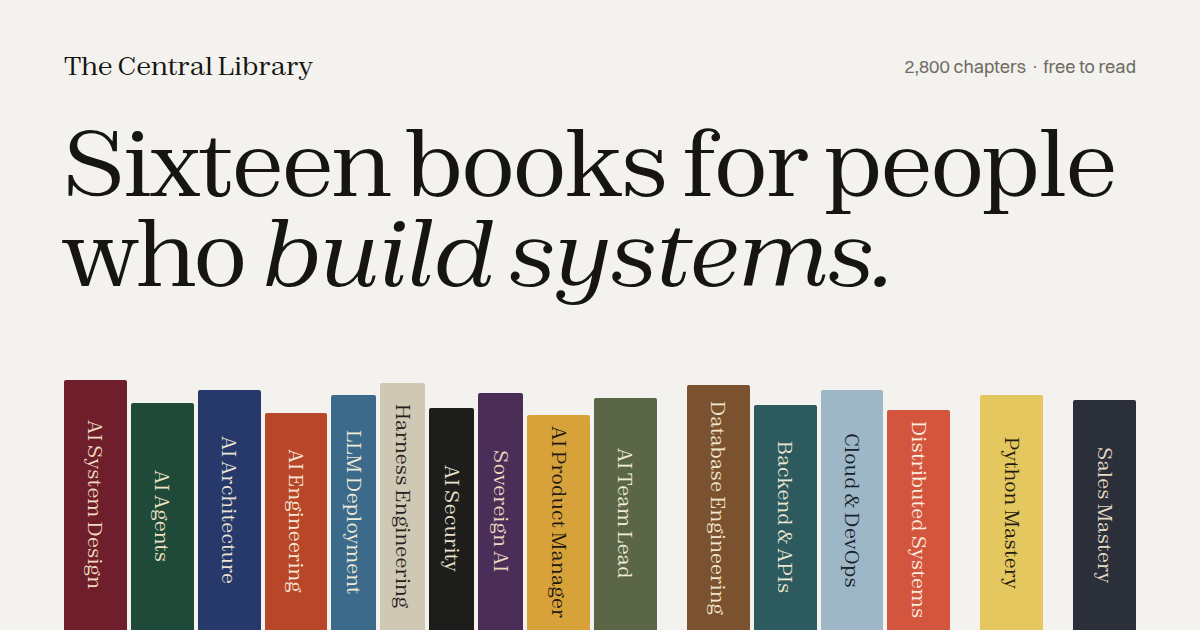
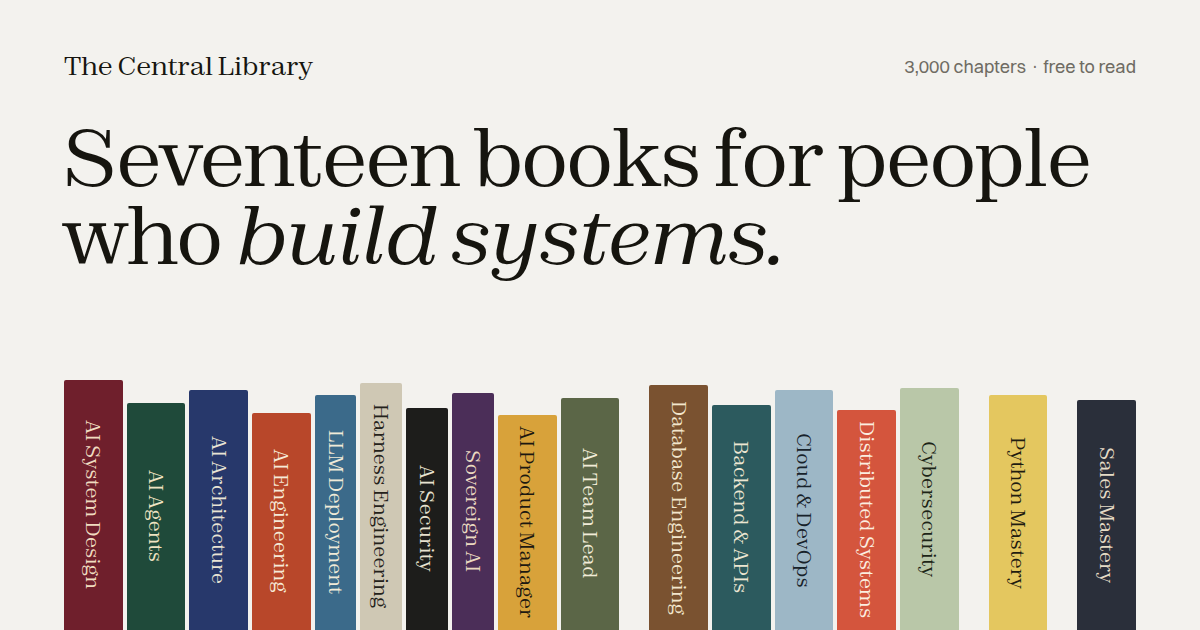
Add cybersecurity course to the library

Changed region(s): [[0.0617, 0.6032, 0.925, 1.0], [0.0308, 0.181, 0.925, 0.4825], [0.74, 0.0905, 0.7708, 0.1206]]

diff --git a/index.html b/index.html
@@ -5,16 +5,16 @@
   <meta name="viewport" content="width=device-width, initial-scale=1, viewport-fit=cover">
   <meta name="theme-color" content="#f3f2ee">
   <meta name="color-scheme" content="dark light">
-  <meta name="description" content="The Central Library — sixteen practical books on AI engineering, backends, cloud, distributed systems, databases, Python, product, leadership and sales. 2,800 chapters, free to read.">
+  <meta name="description" content="The Central Library — seventeen practical books on AI engineering, backends, cloud, security, distributed systems, databases, Python, product, leadership and sales. 3,000 chapters, free to read.">
   <meta name="author" content="Harsh Jha, AI Lead at Formee Holdings">
   <meta property="og:title" content="The Central Library">
-  <meta property="og:description" content="Sixteen books for people who build systems. 2,800 chapters, free to read. Curated by Harsh Jha, AI Lead at Formee Holdings, and built by a team of IITians.">
+  <meta property="og:description" content="Seventeen books for people who build systems. 3,000 chapters, free to read. Curated by Harsh Jha, AI Lead at Formee Holdings, and built by a team of IITians.">
   <meta property="og:type" content="website">
   <meta property="og:url" content="https://harshdotcom.github.io/AI-Systems/">
-  <meta property="og:image" content="https://harshdotcom.github.io/AI-Systems/og-image.png">
+  <meta property="og:image" content="https://harshdotcom.github.io/AI-Systems/og-image.png?v=2">
   <meta property="og:image:width" content="1200">
   <meta property="og:image:height" content="630">
-  <meta property="og:image:alt" content="Sixteen books for people who build systems, above a shelf of sixteen coloured book spines.">
+  <meta property="og:image:alt" content="Seventeen books for people who build systems, above a shelf of seventeen coloured book spines.">
   <meta name="twitter:card" content="summary_large_image">
   <title>The Central Library</title>
   <link rel="icon" type="image/svg+xml" href="favicon.svg?v=2">
@@ -1099,7 +1099,7 @@
         <a class="header-link" href="#library">Catalogue</a>
         <a class="header-link" href="#preface">About</a>
         <a class="header-link" href="#curator">Curator</a>
-        <span class="header-count" id="global-stat-text" title="Your reading, stored only in this browser">0 of 16 opened</span>
+        <span class="header-count" id="global-stat-text" title="Your reading, stored only in this browser">0 of 17 opened</span>
         <button class="theme-btn" id="theme-toggle" type="button" aria-label="Switch between light and dark" title="Light / dark">
           <!-- Sun: shown in the dark theme -->
           <svg id="theme-sun-icon" viewBox="0 0 24 24" fill="none" stroke="currentColor" stroke-width="1.7" stroke-linecap="round" style="display:none" aria-hidden="true">
@@ -1122,12 +1122,12 @@
 
     <!-- Opening -->
     <section class="hero" aria-labelledby="hero-title">
-      <h1 class="hero-title rise" id="hero-title"><span id="hero-count">Sixteen</span> books for people who <em>build systems.</em></h1>
+      <h1 class="hero-title rise" id="hero-title"><span id="hero-count">Seventeen</span> books for people who <em>build systems.</em></h1>
 
       <div class="hero-body rise d1">
         <div>
           <p class="hero-lede">
-            Chapter-by-chapter guides to AI engineering, backends, databases, distributed systems, cloud and Python, and to the product, leadership and sales work that surrounds them.
+            Chapter-by-chapter guides to AI engineering, backends, databases, distributed systems, cloud, security and Python, and to the product, leadership and sales work that surrounds them.
           </p>
           <div class="hero-actions">
             <a class="btn btn-primary" href="#library">
@@ -1139,8 +1139,8 @@
         </div>
 
         <dl class="ledger" aria-label="The collection in numbers">
-          <div><dt>Volumes</dt><dd id="stat-volumes">16</dd></div>
-          <div><dt>Chapters</dt><dd id="stat-chapters">2,800</dd></div>
+          <div><dt>Volumes</dt><dd id="stat-volumes">17</dd></div>
+          <div><dt>Chapters</dt><dd id="stat-chapters">3,000</dd></div>
           <div><dt>Subjects</dt><dd id="stat-subjects">4</dd></div>
           <div><dt>Read by you</dt><dd id="stat-read">0</dd></div>
         </dl>
@@ -1505,6 +1505,16 @@
         icon: '<svg viewBox="0 0 24 24" fill="none" stroke="currentColor" stroke-width="1.7" stroke-linecap="round" stroke-linejoin="round"><rect x="3" y="4" width="6" height="5" rx="1"/><rect x="15" y="4" width="6" height="5" rx="1"/><rect x="9" y="16" width="6" height="5" rx="1"/><path d="M9 6.5h6M6 9v3.5h6M18 9v3.5h-6M12 13v3"/></svg>',
         tone: '#505660', toneBg: 'rgba(174,181,191,.10)', toneBorder: 'rgba(190,198,208,.28)',
         description: 'Master distributed systems through practical study of consensus, replication, data systems, fault tolerance, operations, and real-world case studies.'
+      },
+      {
+        id: 'cybersecurity-application-security', slug: 'cybersecurity-application-security',
+        title: 'Cybersecurity & Application Security', subtitle: 'Defensive security from fundamentals to secure software and operations',
+        category: 'Engineering', chapters: 200, parts: 20,
+        key: 'cyber-appsec-progress-v1', lastKey: 'cyber-appsec-last-v1',
+        file: 'Cybersecurity & Application Security.html',
+        icon: '<svg viewBox="0 0 24 24" fill="none" stroke="currentColor" stroke-width="1.7" stroke-linecap="round" stroke-linejoin="round"><path d="M12 22s8-3.5 8-10V5l-8-3-8 3v7c0 6.5 8 10 8 10Z"/><path d="m8.5 12 2.5 2.5 4.5-5"/></svg>',
+        tone: '#5d6b52', toneBg: 'rgba(150,170,130,.12)', toneBorder: 'rgba(150,170,130,.30)',
+        description: 'Learn defensive security end to end: cryptography, identity and access, network and web application security, API security, secure development, testing, and security operations.'
       },
       {
         id: 'python-mastery', slug: 'python-mastery-200-chapters-html', title: 'Python Mastery',
@@ -2099,13 +2109,15 @@
       'backend-api-engineering':         ['#2c5a5e', '#ece6d2'],
       'cloud-devops-engineering':        ['#9db7c6', '#17222a'],
       'distributed-systems-engineering': ['#d4553d', '#fbeee0'],
+      'cybersecurity-application-security': ['#b9c7a8', '#1c2416'],
       'python-mastery':                  ['#e4c75f', '#1f1c10'],
       'sales-mastery':                   ['#2a2f3a', '#e6dcc6']
     };
     const SPINE_TITLE = {
       'Distributed Systems Engineering': 'Distributed Systems',
       'Backend & API Engineering': 'Backend & APIs',
-      'Cloud & DevOps Engineering': 'Cloud & DevOps'
+      'Cloud & DevOps Engineering': 'Cloud & DevOps',
+      'Cybersecurity & Application Security': 'Cybersecurity'
     };
     const SPINE_HEIGHTS = [100, 91, 96, 87, 94, 99, 89, 95, 86, 93, 98, 90, 96, 88, 94, 92];
     const NUMBER_WORDS = ['No', 'One', 'Two', 'Three', 'Four', 'Five', 'Six', 'Seven', 'Eight', 'Nine', 'Ten', 'Eleven', 'Twelve',

diff --git a/harsh-jha.html b/harsh-jha.html
@@ -464,7 +464,7 @@
                 <span class="row-title">The Central Library</span>
                 <span class="row-sub">HTML, CSS, JavaScript</span>
               </span>
-              <span class="row-desc">Sixteen books and 2,800 chapters on AI engineering, backends, databases, distributed systems and the work around them. Free to read, with a built-in reader, progress kept in the browser and no account.</span>
+              <span class="row-desc">Seventeen books and 3,000 chapters on AI engineering, backends, databases, security, distributed systems and the work around them. Free to read, with a built-in reader, progress kept in the browser and no account.</span>
               <span class="row-go"><span>Open</span><svg viewBox="0 0 24 24" fill="none" stroke="currentColor" stroke-width="1.8" stroke-linecap="round" stroke-linejoin="round" aria-hidden="true"><path d="M7 17 17 7M9 7h8v8"/></svg></span>
             </a>
           </li>
@@ -665,7 +665,7 @@
           <div><dt>Email</dt><dd><a href="mailto:harshj92002@gmail.com">harshj92002@gmail.com</a></dd></div>
           <div><dt>LinkedIn</dt><dd><a href="https://www.linkedin.com/in/harshjha-iiti/" target="_blank" rel="noopener me">linkedin.com/in/harshjha-iiti</a></dd></div>
           <div><dt>GitHub</dt><dd><a href="https://github.com/harshdotcom" target="_blank" rel="noopener me">github.com/harshdotcom</a></dd></div>
-          <div><dt>Library</dt><dd><a href="index.html">The Central Library</a>, sixteen books for people who build systems</dd></div>
+          <div><dt>Library</dt><dd><a href="index.html">The Central Library</a>, seventeen books for people who build systems</dd></div>
         </dl>
       </div>
       <div class="section-end"></div>

diff --git a/Cybersecurity & Application Security.html b/Cybersecurity & Application Security.html
@@ -183,6 +183,13 @@ h1.ch-title{font-size:clamp(28px,4vw,40px);line-height:1.12;letter-spacing:-.02e
 }
 @media (prefers-reduced-motion:reduce){*{transition:none!important}}
 </style>
+<!-- The Central Library theme -->
+<link rel="preconnect" href="https://api.fontshare.com">
+<link href="https://api.fontshare.com/v2/css?f[]=zodiak@400,401&display=swap" rel="stylesheet">
+<link href="https://api.fontshare.com/v2/css?f[]=switzer@400,500,600&display=swap" rel="stylesheet">
+<link rel="stylesheet" href="book-theme.css">
+<style>:root{--book:#586944;--book-dark:#b9c7a8}</style>
+<link rel="icon" type="image/svg+xml" href="favicon.svg?v=2">
 </head>
 <body>
 <header class="top" id="top">

diff --git a/README.md b/README.md
@@ -1,9 +1,9 @@
 # The Central Library
 
-> **Sixteen books for people who build systems.**
-> 16 volumes · 2,800 chapters · free to read, nothing to sign up for.
+> **Seventeen books for people who build systems.**
+> 17 volumes · 3,000 chapters · free to read, nothing to sign up for.
 
-Chapter-by-chapter guides to AI engineering, backends, databases, distributed systems, cloud and Python, and to the product, leadership and sales work that surrounds them.
+Chapter-by-chapter guides to AI engineering, backends, databases, distributed systems, cloud, security and Python, and to the product, leadership and sales work that surrounds them.
 
 **Curated by [Harsh Jha](https://www.linkedin.com/in/harshjha-iiti/), AI Lead at Formee Holdings. Built by a team of IITians.**
 
@@ -37,15 +37,16 @@ So the chapters stay close to real constraints: KV cache budgets, consensus, que
 | 12 | **Backend & API Engineering** | Engineering | 200 | API design, authentication, data access, background jobs, testing, security, observability, deployment |
 | 13 | **Cloud & DevOps Engineering** | Engineering | 200 | Linux, cloud platforms, networking, infrastructure as code, CI/CD, Kubernetes, reliability, FinOps |
 | 14 | **Distributed Systems Engineering** | Engineering | 200 | Consensus, replication, data systems, fault tolerance, operations, case studies |
-| 15 | **Python Mastery** | Programming | 200 | Language fundamentals, tooling, data, testing, application design, production practices |
-| 16 | **Sales Mastery** | Business | 200 | Cold outreach, technical demos, executive negotiation, enterprise renewals |
+| 15 | **Cybersecurity & Application Security** | Engineering | 200 | Cryptography, identity and access, network and web application security, API security, secure development, testing, security operations |
+| 16 | **Python Mastery** | Programming | 200 | Language fundamentals, tooling, data, testing, application design, production practices |
+| 17 | **Sales Mastery** | Business | 200 | Cold outreach, technical demos, executive negotiation, enterprise renewals |
 
 ---
 
 ## What the site does
 
 - **The shelf.** Every volume sits spine-out on the first page, grouped by subject. Click a spine to open the book; a red ribbon marks the ones you have started.
-- **The catalogue.** A searchable index of all sixteen volumes, filterable by subject or by what you have in progress. Press `/` to search.
+- **The catalogue.** A searchable index of all seventeen volumes, filterable by subject or by what you have in progress. Press `/` to search.
 - **The reader.** Each book opens in a full-screen reader with a chapter stepper, a table of contents, a progress count and a shareable link to the chapter you are on. `←` and `→` move between chapters, `Esc` returns to the library.
 - **Focus dock.** A 25-minute focus timer and ambient sound, available on every page.
 - **Light and dark.** One switch, remembered between visits.
